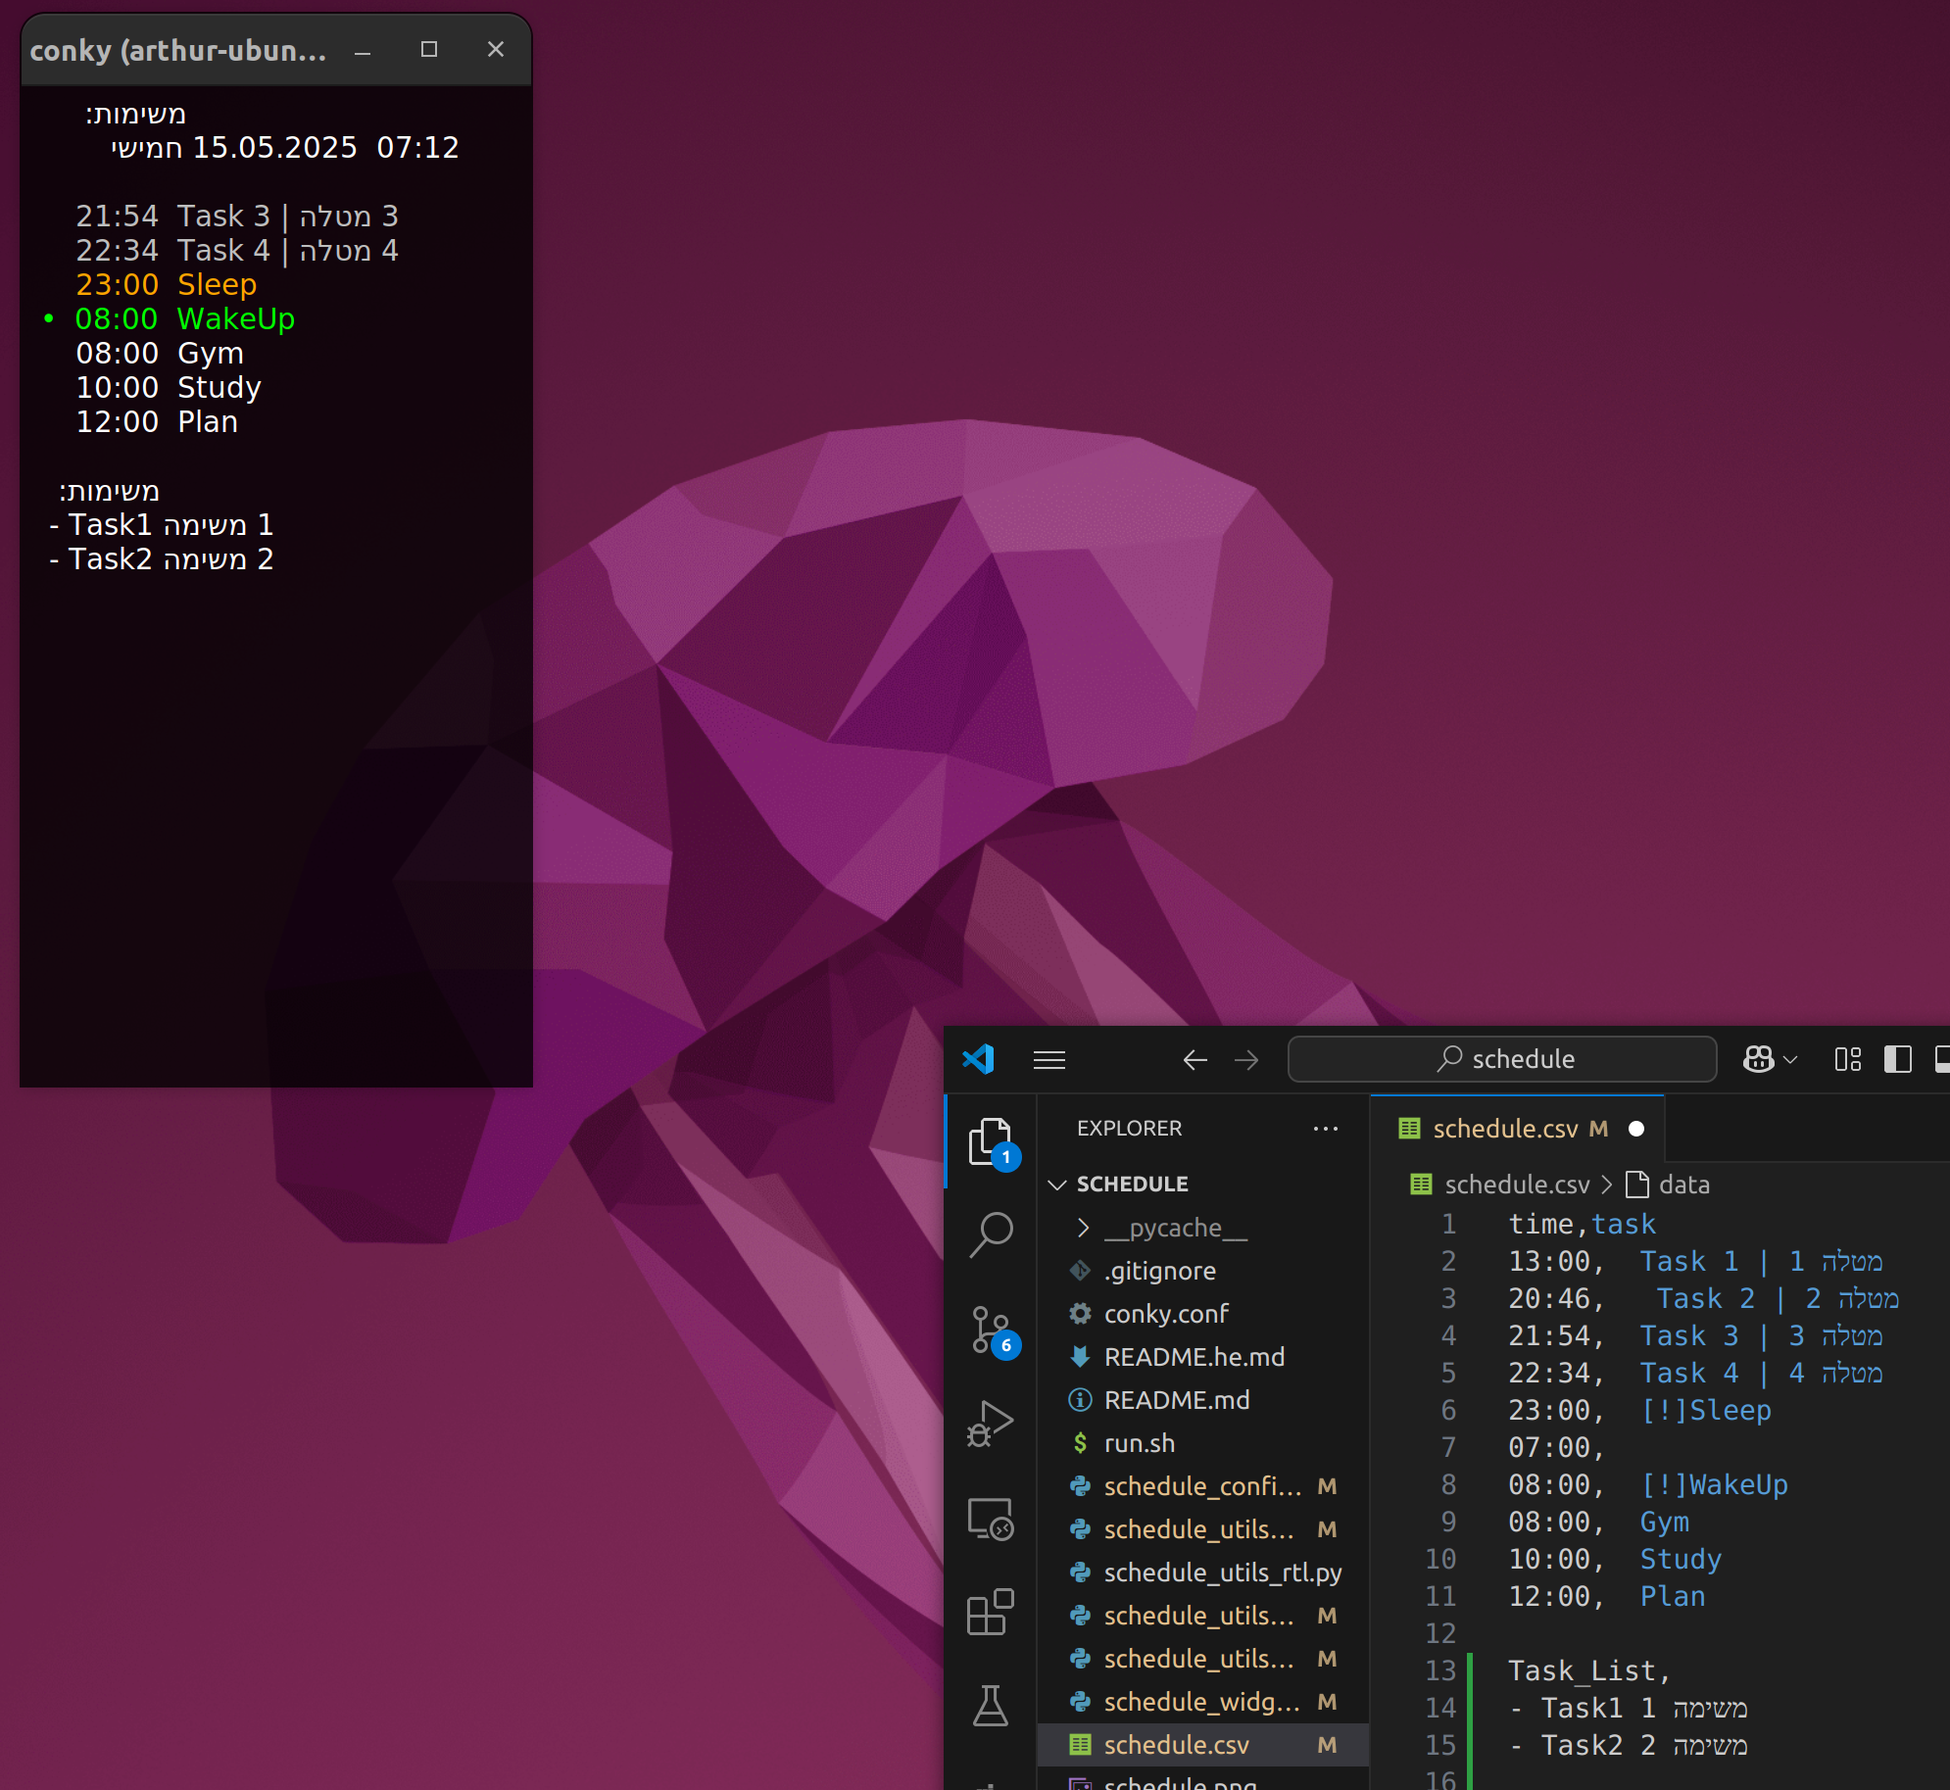
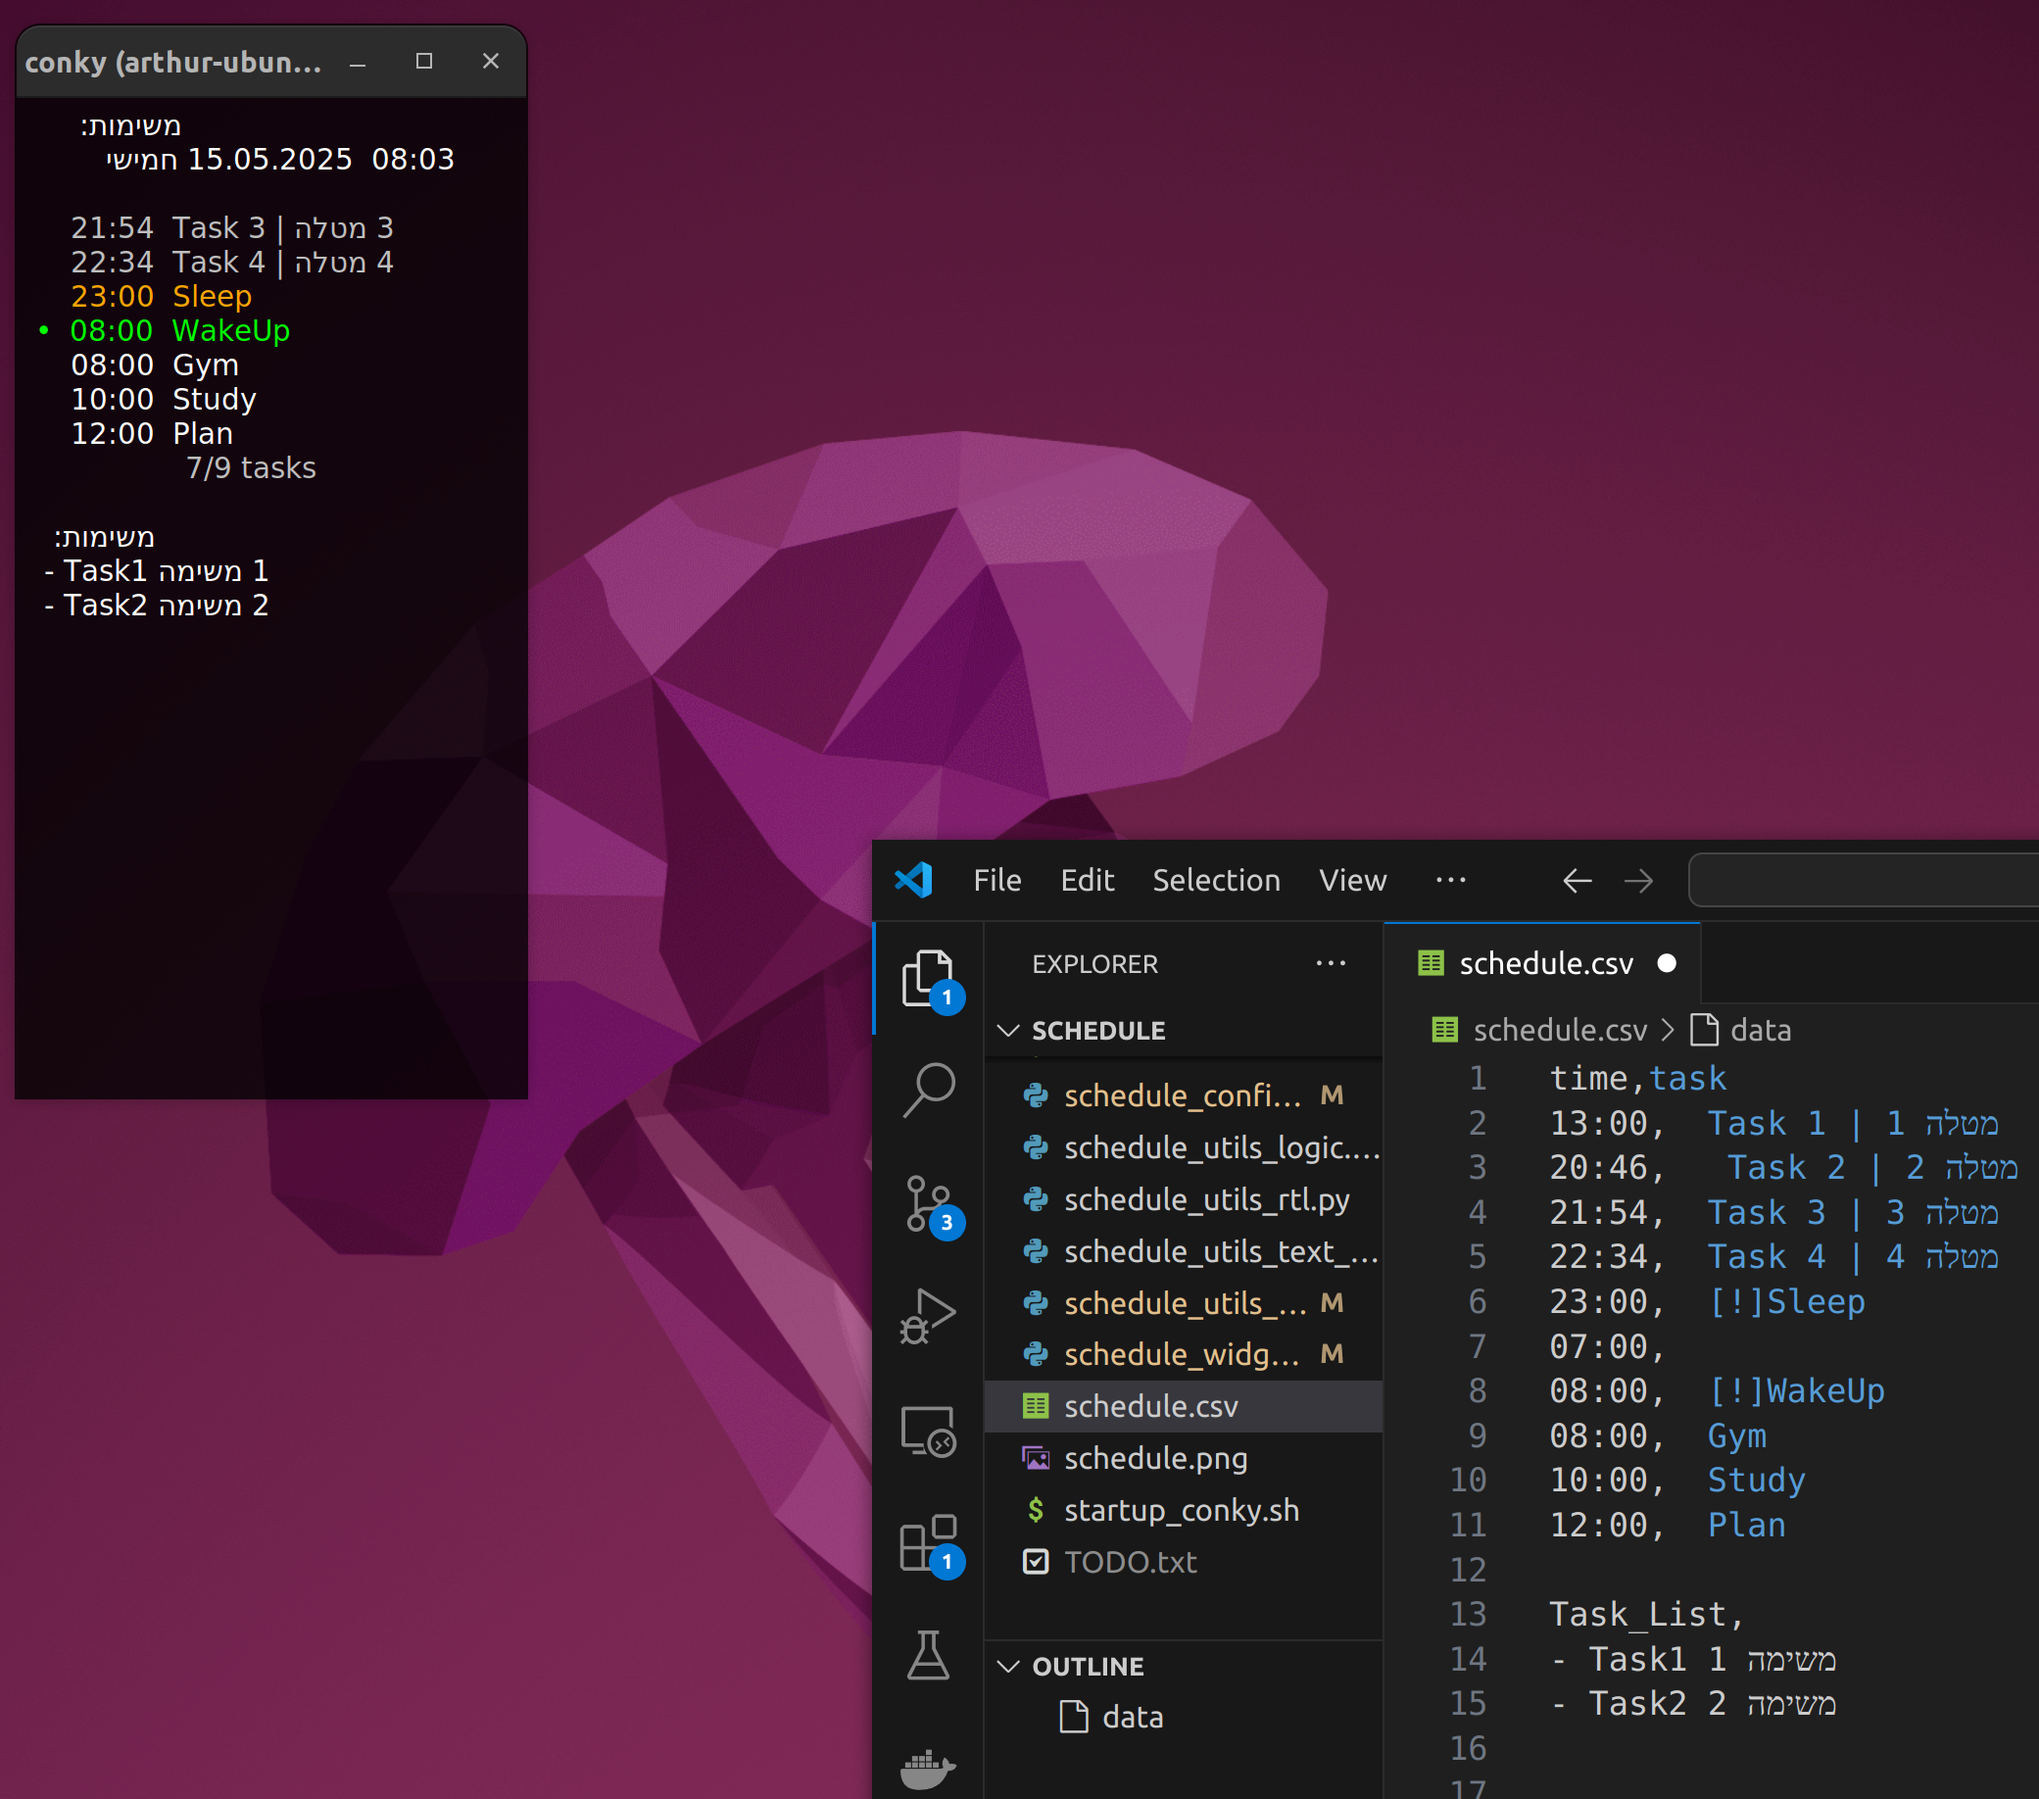
lines counter added

Changed region(s): [[0.0, 0.0, 1.0, 1.0], [0.4362, 0.2184, 0.6854, 0.4368], [0.1558, 0.6864, 0.1869, 0.7176]]

diff --git a/schedule_widget.py b/schedule_widget.py
@@ -1,7 +1,7 @@
 from datetime import datetime, timedelta
 from schedule_utils_ui_render import setup_hebrew_locale, format_scheduls, format_task_list, get_sleep_message, render_no_tasks_message, format_schedule_output
 from schedule_utils_logic import load_and_filter_schedule, find_current_task_index
-
+from schedule_config import CONFIG
 
 def generate_schedule_display():
     now = datetime.now()
@@ -15,9 +15,27 @@ def generate_schedule_display():
 
     current_task_index = find_current_task_index(tasks_to_display, now)
     results += format_scheduls(tasks_to_display, now, current_task_index)
+
+
+    #total tasks in the schedule
+    total_schedule_tasks = len([t for t, task in schedule if task.strip()])
+    shown_tasks = len(tasks_to_display)
+    summary_text =  CONFIG["left_padding"] * CONFIG["schedule_summery"]["padding_mul"]
+    summary_text += f"{shown_tasks}/{total_schedule_tasks} "
+    summary_text += CONFIG["schedule_summery"]["text"]
+    from schedule_utils_text_style import wrap_color
+    summary_line = wrap_color(summary_text, CONFIG["schedule_summery"]["color"])
+
+    results.append(summary_line)
+
+
     if task_list:
         results.append((""))    #space
         results += format_task_list(task_list)
+
+
+
+
 
     return format_schedule_output(results, now)
 

diff --git a/schedule_utils_ui_render.py b/schedule_utils_ui_render.py
@@ -16,11 +16,11 @@ def get_sleep_message(now):
     return None
 
 def render_no_tasks_message(now):
-    header = CONFIG["left_padding"] * 2 + reverse_if_hebrew(CONFIG["header_title"])
-    date_line = CONFIG["left_padding"] * 3 + reverse_if_hebrew(now.strftime('%A')) + " " + now.strftime('%d.%m.%Y')
+    header = CONFIG["left_padding"] * CONFIG["header_title_padding_mul"] + reverse_if_hebrew(CONFIG["header_title"])
+    date_line = CONFIG["left_padding"] * CONFIG["date_line_padding_mul"] + reverse_if_hebrew(now.strftime('%A')) + " " + now.strftime('%d.%m.%Y')
     return f"{header}\n{date_line}\n\n" + reverse_if_hebrew(CONFIG["no_tasks_message"])
 
 def format_schedule_output(results, now):
-    header = CONFIG["left_padding"] * 2 + reverse_if_hebrew(CONFIG["header_title"])
-    date_line = CONFIG["left_padding"] * 3 + reverse_if_hebrew(now.strftime('%A')) + " " + now.strftime('%d.%m.%Y')
+    header = CONFIG["left_padding"]  * CONFIG["header_title_padding_mul"] + reverse_if_hebrew(CONFIG["header_title"])
+    date_line = CONFIG["left_padding"] * CONFIG["date_line_padding_mul"] + reverse_if_hebrew(now.strftime('%A')) + " " + now.strftime('%d.%m.%Y')
     return f"{header}\n{date_line}  {now.strftime('%H:%M')}\n\n" + "\n".join(results)

diff --git a/schedule_config.py b/schedule_config.py
@@ -5,9 +5,16 @@ CONFIG = {
     "SCHEDULE_FILE": "/home/arthur/schedule/schedule.csv",
     "no_tasks_message": "אין משימות בקובץ",
     "header_title": "משימות:",
+    "header_title_padding_mul": 2,
+    "date_line_padding_mul": 3,
     "task_list_header_title": "משימות:",
     "left_padding": "   ",
     "short_left_padding": "  ",
+    "schedule_summery":{
+        "color" : "gray",
+        "text" : "tasks",
+        "padding_mul": 6
+    },
     "sleep_block": {
         "enabled": True,
         "hours": [23, 7],
